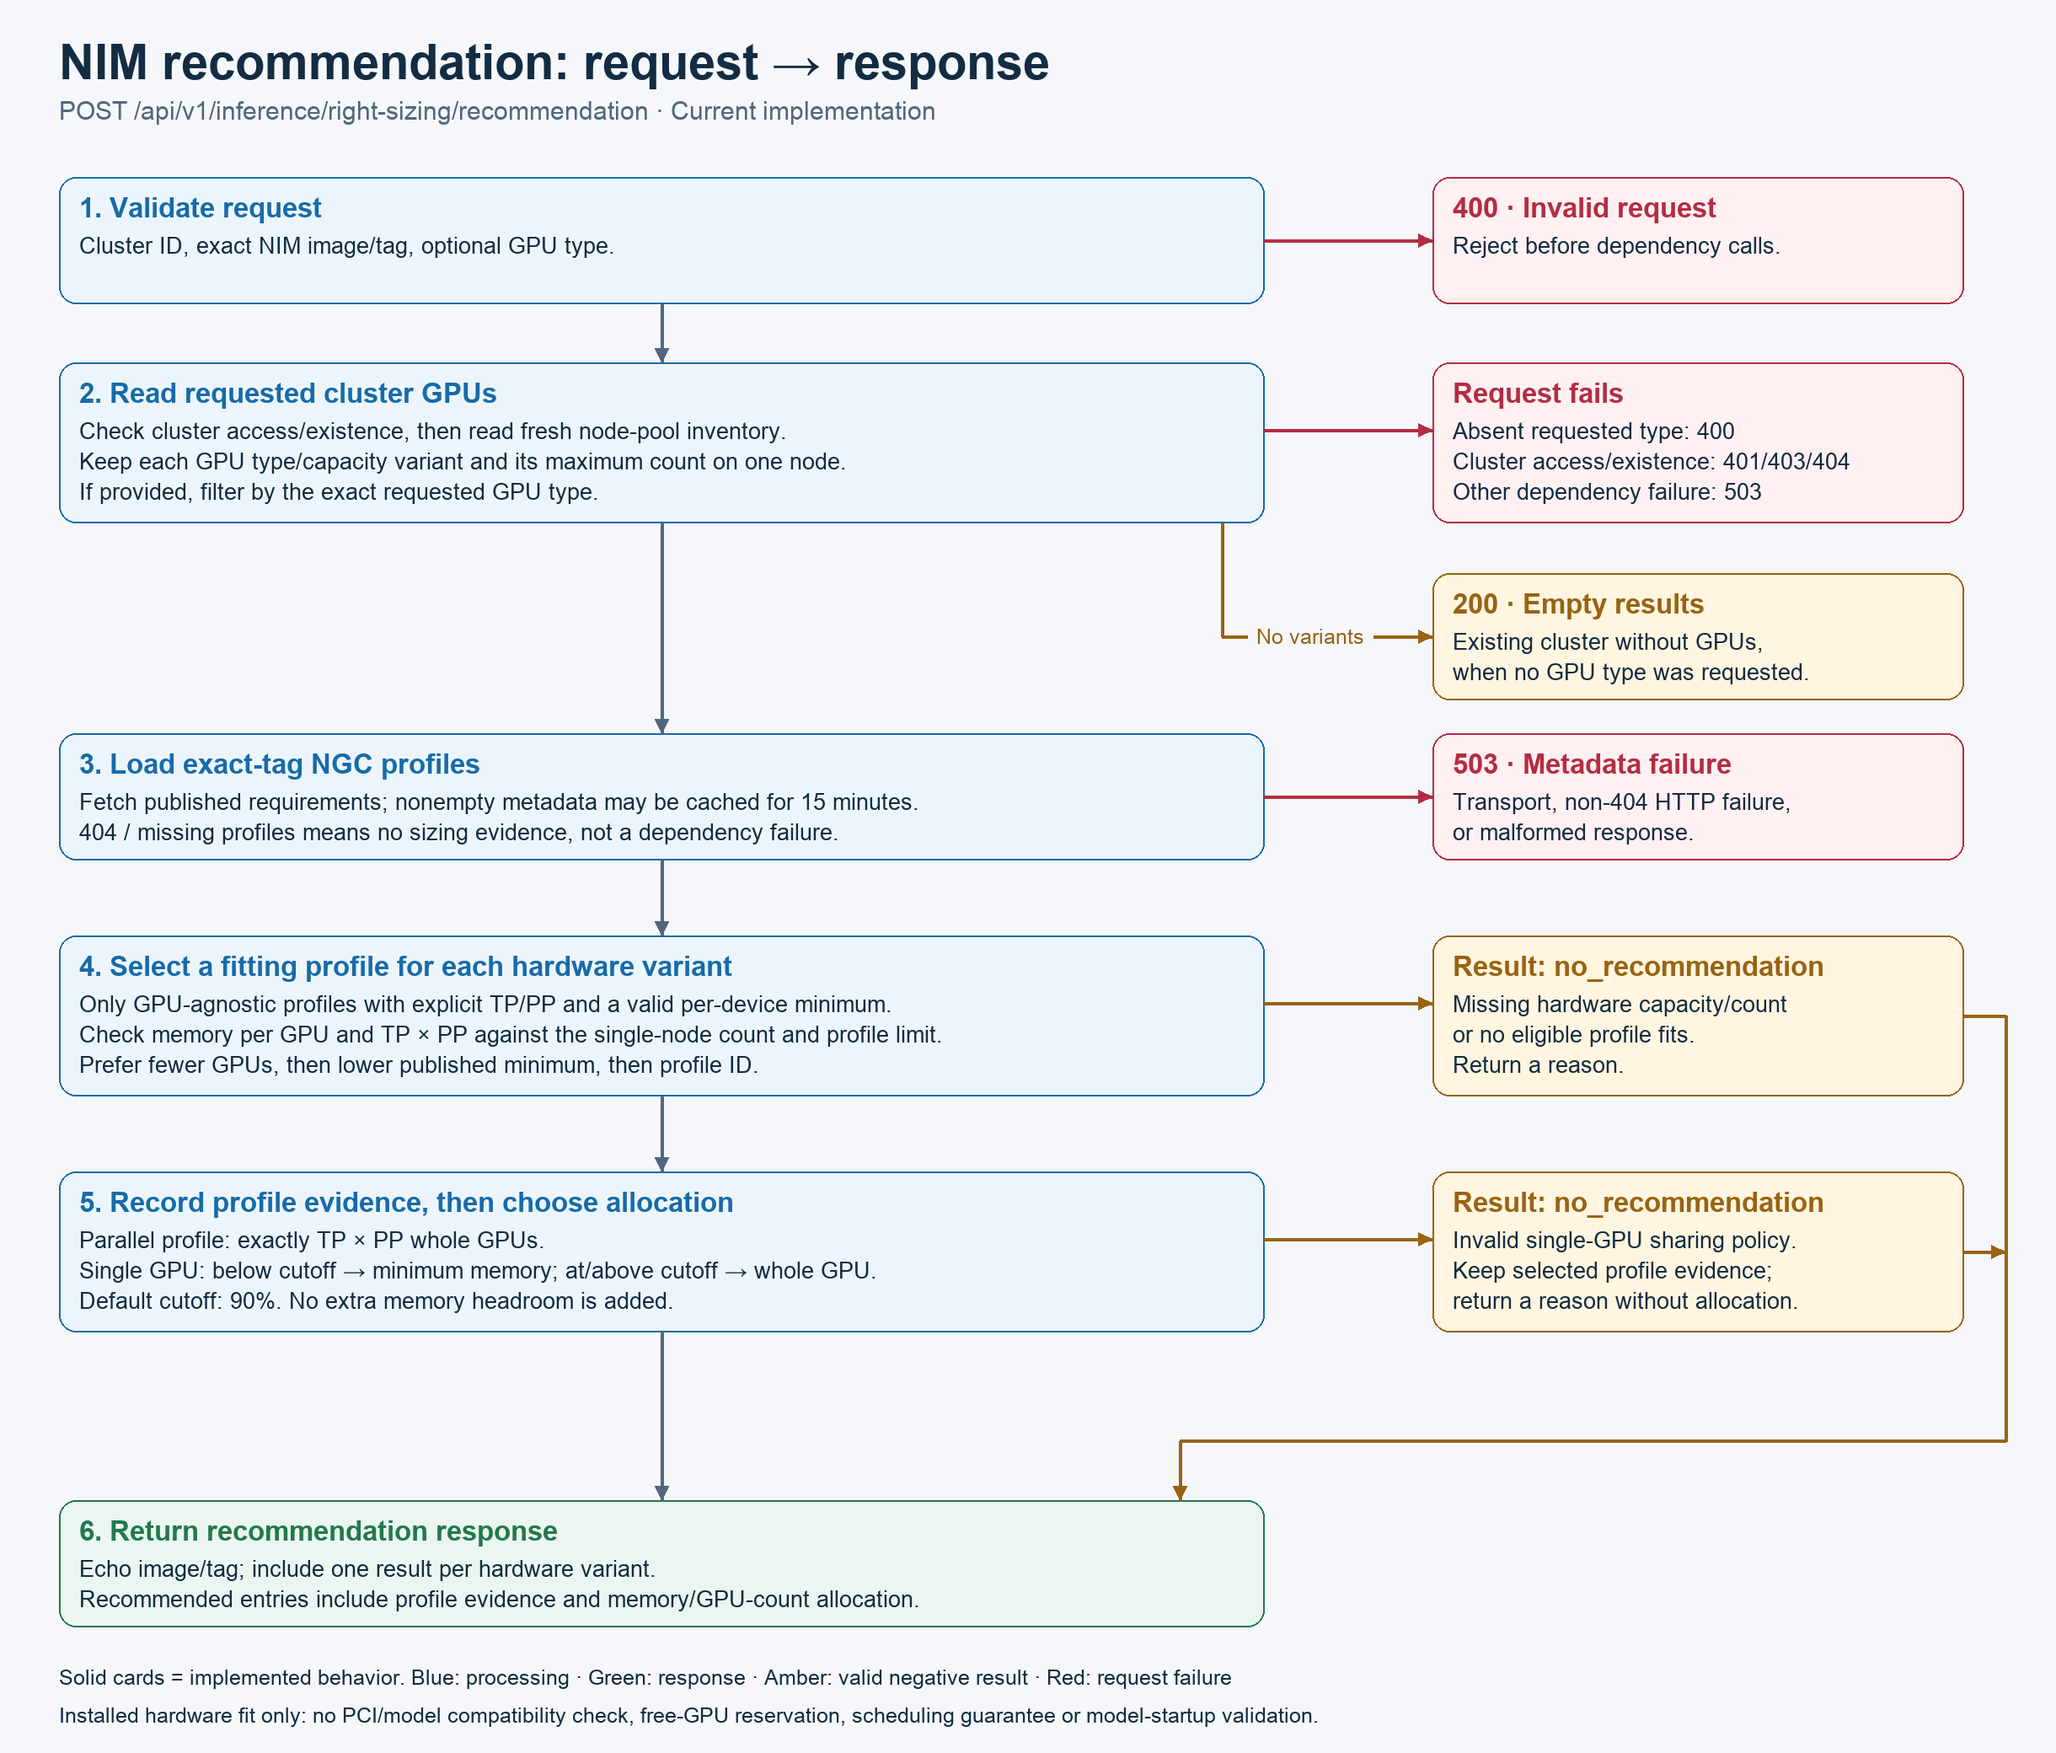
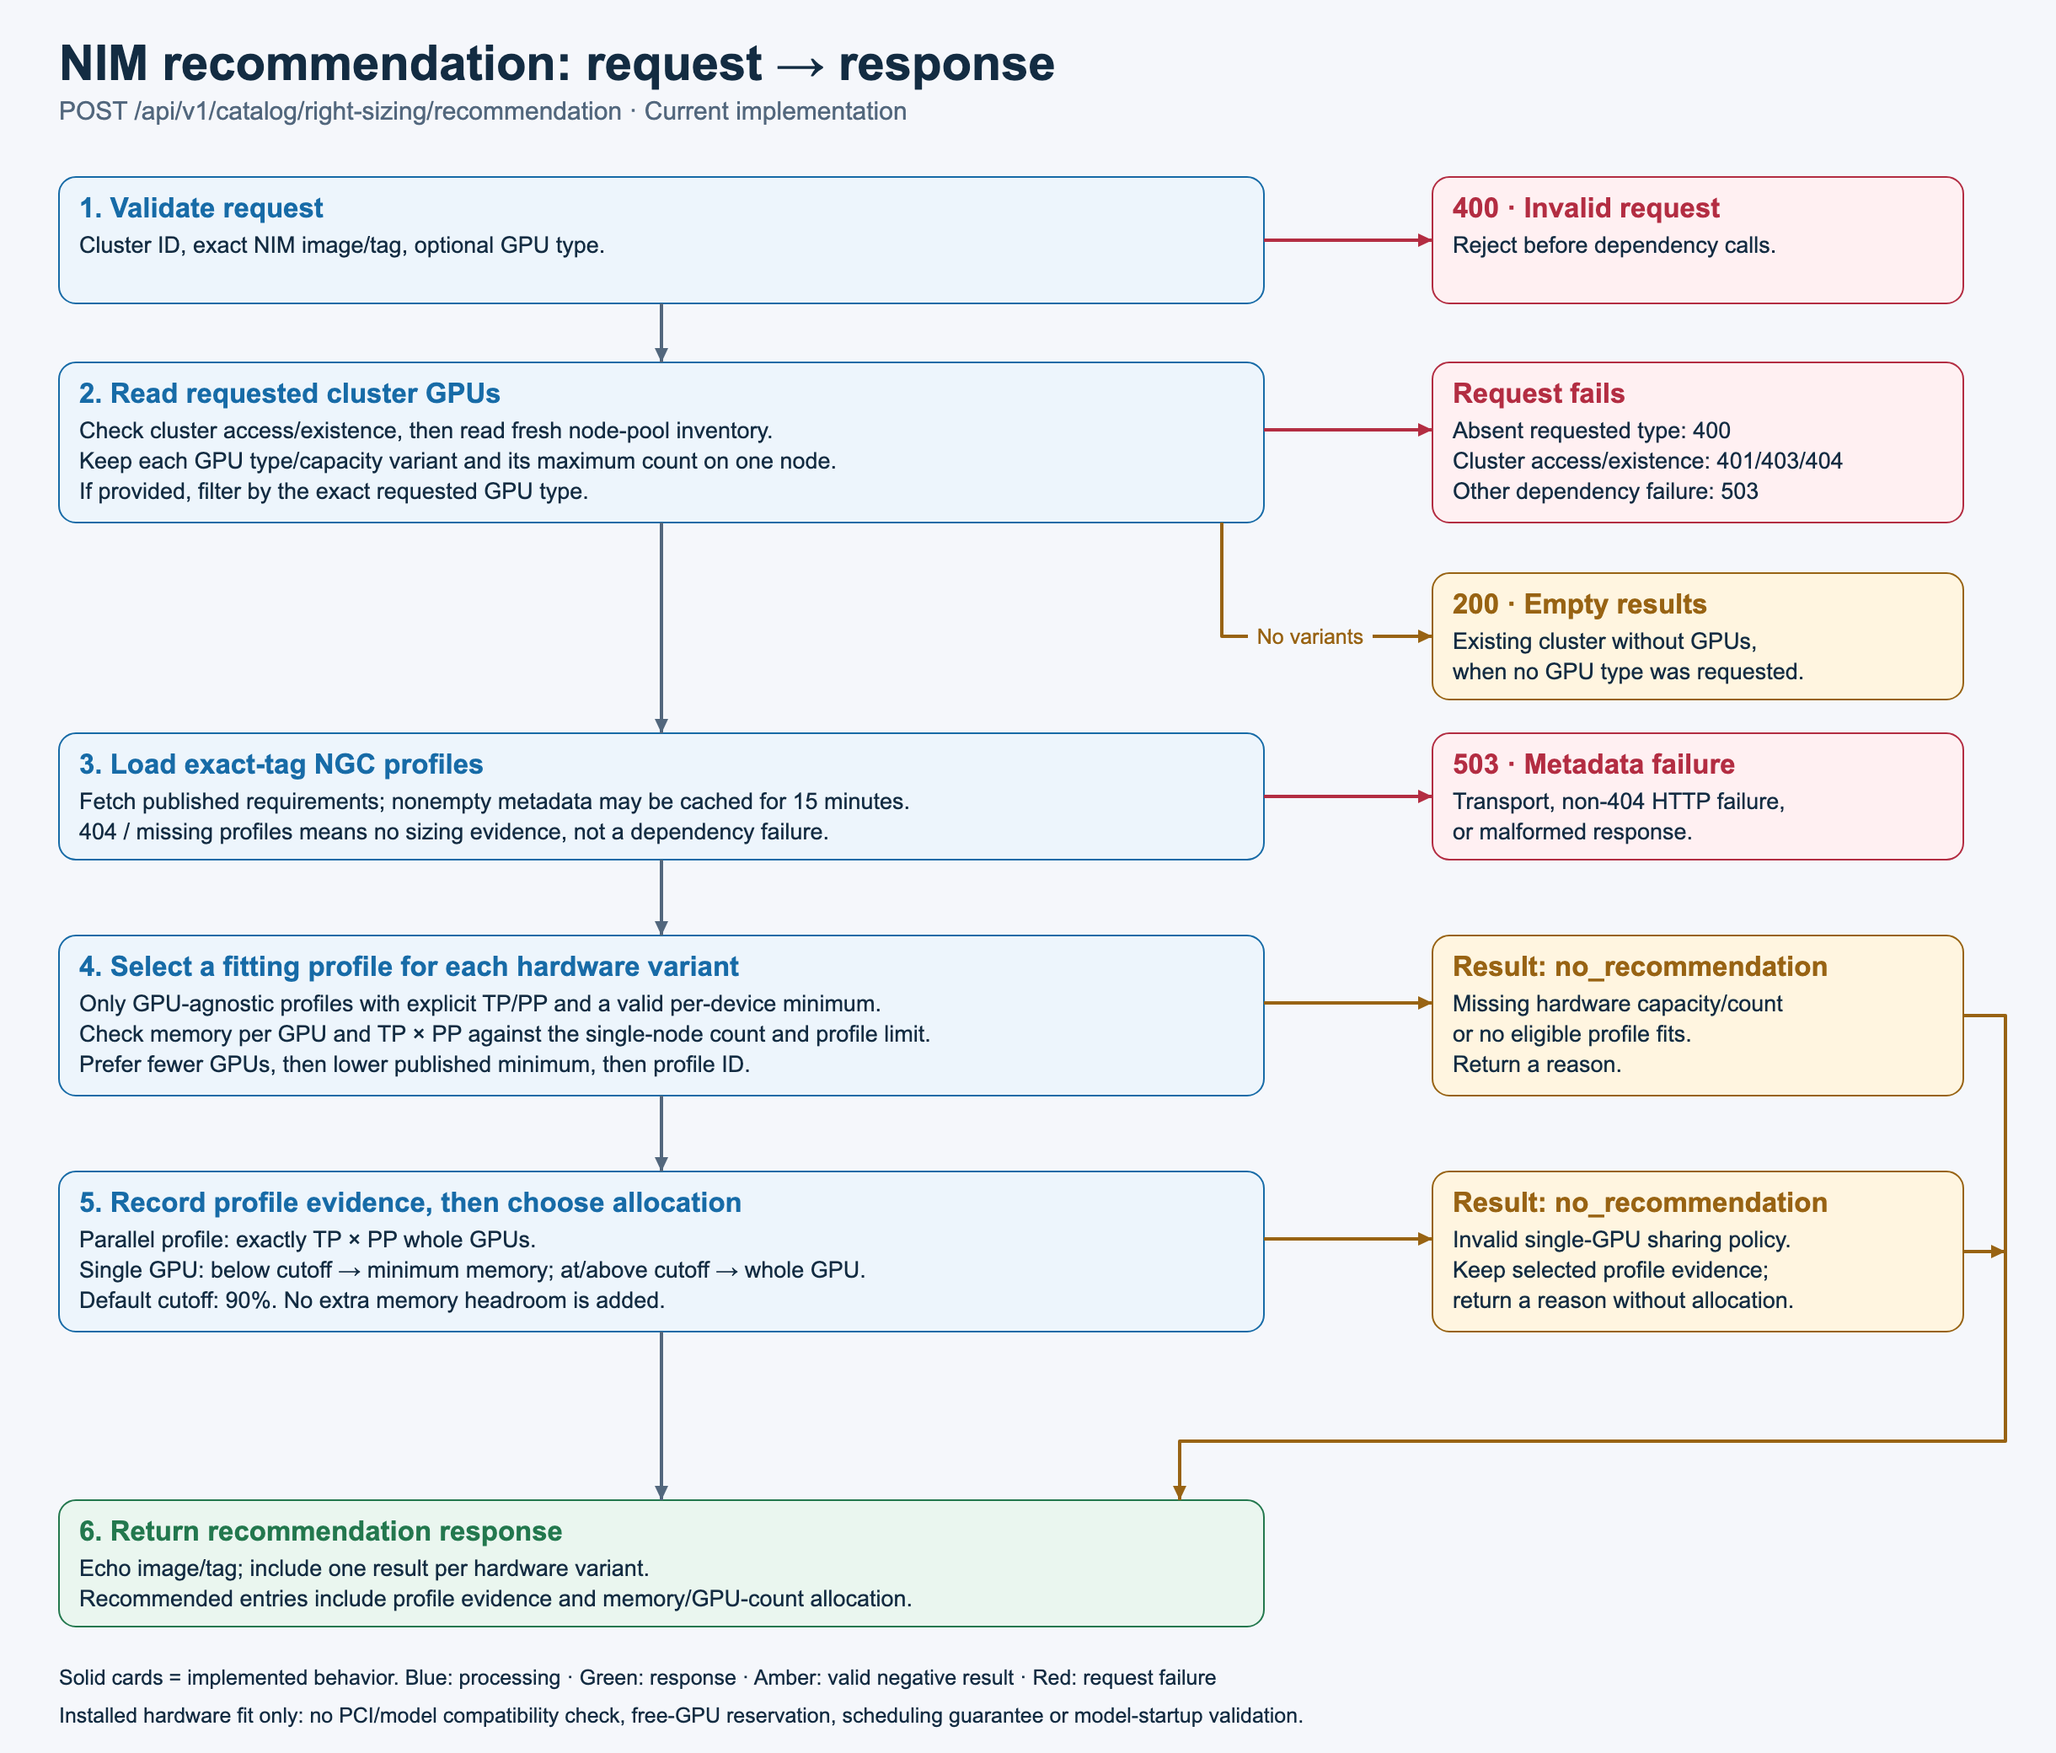
Move NIM recommendations into catalog namespace
Restore assets routing; remove endpoint exceptions. Simplify GPU inventory SQL.

diff --git a/control-plane/frontend/src/swagger-models/catalog-service-client/api.ts b/control-plane/frontend/src/swagger-models/catalog-service-client/api.ts
@@ -2321,7 +2321,7 @@ export const RightSizingApiAxiosParamCreator = function (configuration?: Configu
         recommendInferenceResources: async (recommendationRequest: RecommendationRequest, options: AxiosRequestConfig = {}): Promise<RequestArgs> => {
             // verify required parameter 'recommendationRequest' is not null or undefined
             assertParamExists('recommendInferenceResources', 'recommendationRequest', recommendationRequest)
-            const localVarPath = `/api/v1/inference/right-sizing/recommendation`;
+            const localVarPath = `/api/v1/catalog/right-sizing/recommendation`;
             // use dummy base URL string because the URL constructor only accepts absolute URLs.
             const localVarUrlObj = new URL(localVarPath, DUMMY_BASE_URL);
             let baseOptions;

diff --git a/control-plane/catalog-service/pkg/services/api_right_sizing_service_test.go b/control-plane/catalog-service/pkg/services/api_right_sizing_service_test.go
@@ -10,10 +10,12 @@ import (
 	"net/http/httptest"
 	"strings"
 
+	authorizationclient "github.com/dsx-ai-factory/run-ai/control-plane/authorization/pkg/client"
 	"github.com/dsx-ai-factory/run-ai/control-plane/catalog-service/internal/generated/pkg/api"
 	"github.com/dsx-ai-factory/run-ai/control-plane/catalog-service/pkg/clients/gpuinventory"
 	"github.com/dsx-ai-factory/run-ai/control-plane/catalog-service/pkg/clients/ngcmetadata"
 	"github.com/dsx-ai-factory/run-ai/control-plane/catalog-service/pkg/services/rightsizing"
+	"github.com/dsx-ai-factory/run-ai/runai-common-packages/config"
 	. "github.com/onsi/ginkgo/v2"
 	. "github.com/onsi/gomega"
 )
@@ -31,12 +33,27 @@ func (sizingMetadata) Get(context.Context, string, string) (ngcmetadata.Metadata
 	return ngcmetadata.Metadata{}, nil
 }
 
-var _ = It("right sizing controller preserves null gpuand missing recommendations", func() {
+var _ = It("catalog recommendation route preserves null gpu and missing recommendations", func() {
+	previousAuthConfig := config.Get[*authorizationclient.Config]()
+	authServer := httptest.NewServer(http.HandlerFunc(func(w http.ResponseWriter, r *http.Request) {
+		defer GinkgoRecover()
+		var permission struct {
+			ResourceType  string `json:"resourceType"`
+			RequestAction string `json:"requestAction"`
+		}
+		Expect(json.NewDecoder(r.Body).Decode(&permission)).To(Succeed())
+		Expect(permission.ResourceType).To(Equal("inferences"))
+		Expect(permission.RequestAction).To(Equal("read"))
+		w.WriteHeader(http.StatusNoContent)
+	}))
+	DeferCleanup(authServer.Close)
+	config.Set(&authorizationclient.Config{Url: authServer.URL})
+	DeferCleanup(func() { config.Set(previousAuthConfig) })
 	service := &RightSizingAPIService{service: rightsizing.New(sizingInventory{}, sizingMetadata{}, 90)}
 	controller := api.NewRightSizingAPIController(service)
-	request := httptest.NewRequest("POST", "/api/v1/inference/right-sizing/recommendation", strings.NewReader(`{"clusterId":"4b94efde-b05a-4118-a03a-1dedff81fa8e","image":"nvcr.io/nim/nvidia/example","tag":"1.2.3","gpuType":null}`))
+	request := httptest.NewRequest("POST", "/api/v1/catalog/right-sizing/recommendation", strings.NewReader(`{"clusterId":"4b94efde-b05a-4118-a03a-1dedff81fa8e","image":"nvcr.io/nim/nvidia/example","tag":"1.2.3","gpuType":null}`))
 	response := httptest.NewRecorder()
-	controller.RecommendInferenceResources(response, request)
+	api.NewRouter(controller).ServeHTTP(response, request)
 	Expect(response.Code).To(BeNumerically("==", http.StatusOK))
 	var body struct {
 		Results []map[string]interface{} `json:"results"`
@@ -51,4 +68,13 @@ var _ = It("right sizing controller preserves null gpuand missing recommendation
 		Expect(result["recommendation"]).To(BeNil())
 		Expect(result["minimumGpuMemoryPerDeviceGb"]).To(BeNil())
 	}
+})
+
+var _ = It("does not expose recommendations under assets inference namespace", func() {
+	service := &RightSizingAPIService{service: rightsizing.New(sizingInventory{}, sizingMetadata{}, 90)}
+	controller := api.NewRightSizingAPIController(service)
+	request := httptest.NewRequest(http.MethodPost, "/api/v1/inference/right-sizing/recommendation", strings.NewReader(`{"clusterId":"4b94efde-b05a-4118-a03a-1dedff81fa8e","image":"nvcr.io/nim/nvidia/example","tag":"1.2.3"}`))
+	response := httptest.NewRecorder()
+	api.NewRouter(controller).ServeHTTP(response, request)
+	Expect(response.Code).To(Equal(http.StatusNotFound))
 })

diff --git a/control-plane/cluster-service/pkg/database/dao/node_dao.go b/control-plane/cluster-service/pkg/database/dao/node_dao.go
@@ -576,8 +576,7 @@ func GetNodepoolsGpuTypes(ctx context.Context, tenantId int32, permittedScopes o
 	rows := []nodepoolGpuTypeRow{}
 	query := runaidb.DB().WithContext(ctx).
 		Table(models.NodeTable).
-		Select("cluster_uuid, node_pool, gpu_type, gpu_memory_bytes, COALESCE(SUM(gpu_count), 0) as total_devices, "+
-			"COALESCE(MAX(gpu_count), 0) as max_devices_per_node").
+		Select("cluster_uuid, node_pool, gpu_type, gpu_memory_bytes, COALESCE(SUM(gpu_count), 0) as total_devices, COALESCE(MAX(gpu_count), 0) as max_devices_per_node").
 		Where("tenant_id = ?", tenantId).
 		Where("gpu_type <> ''").
 		Where("cluster_uuid IN ?", clusterUuids).
